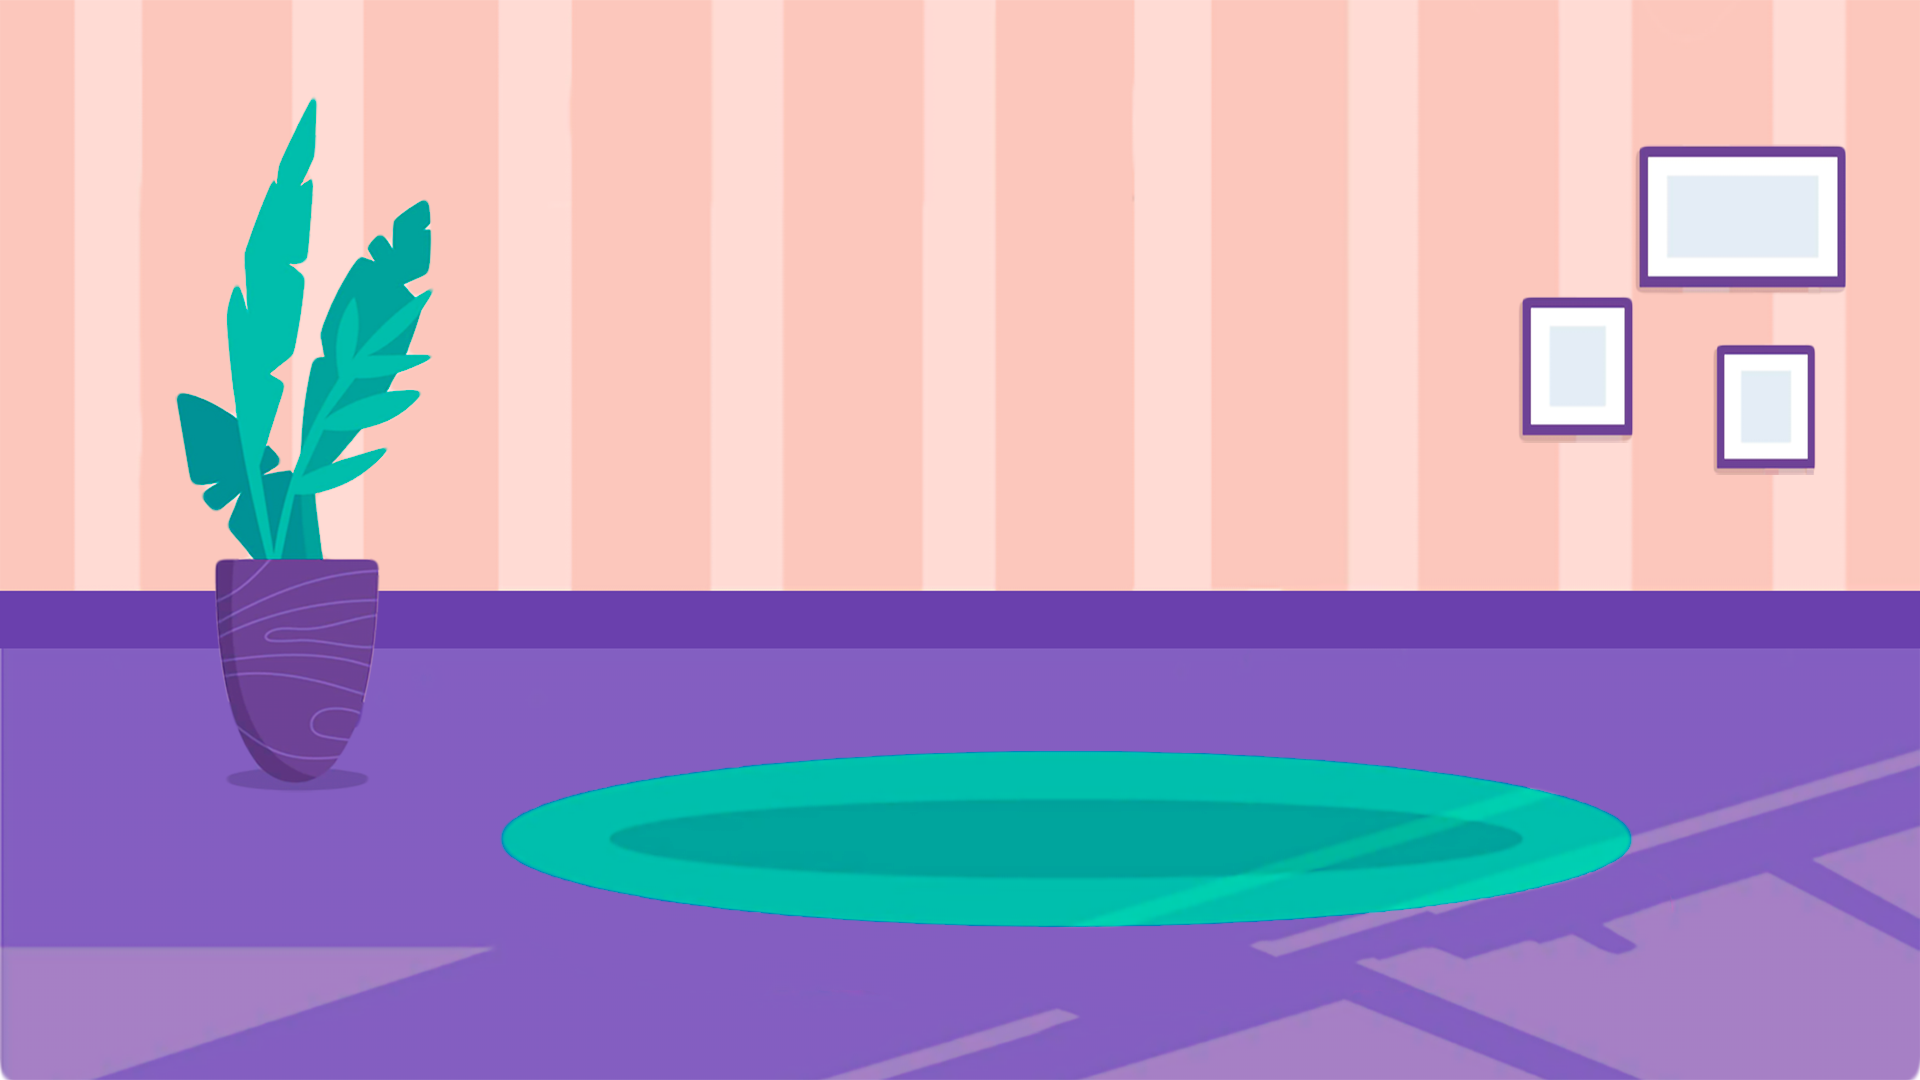
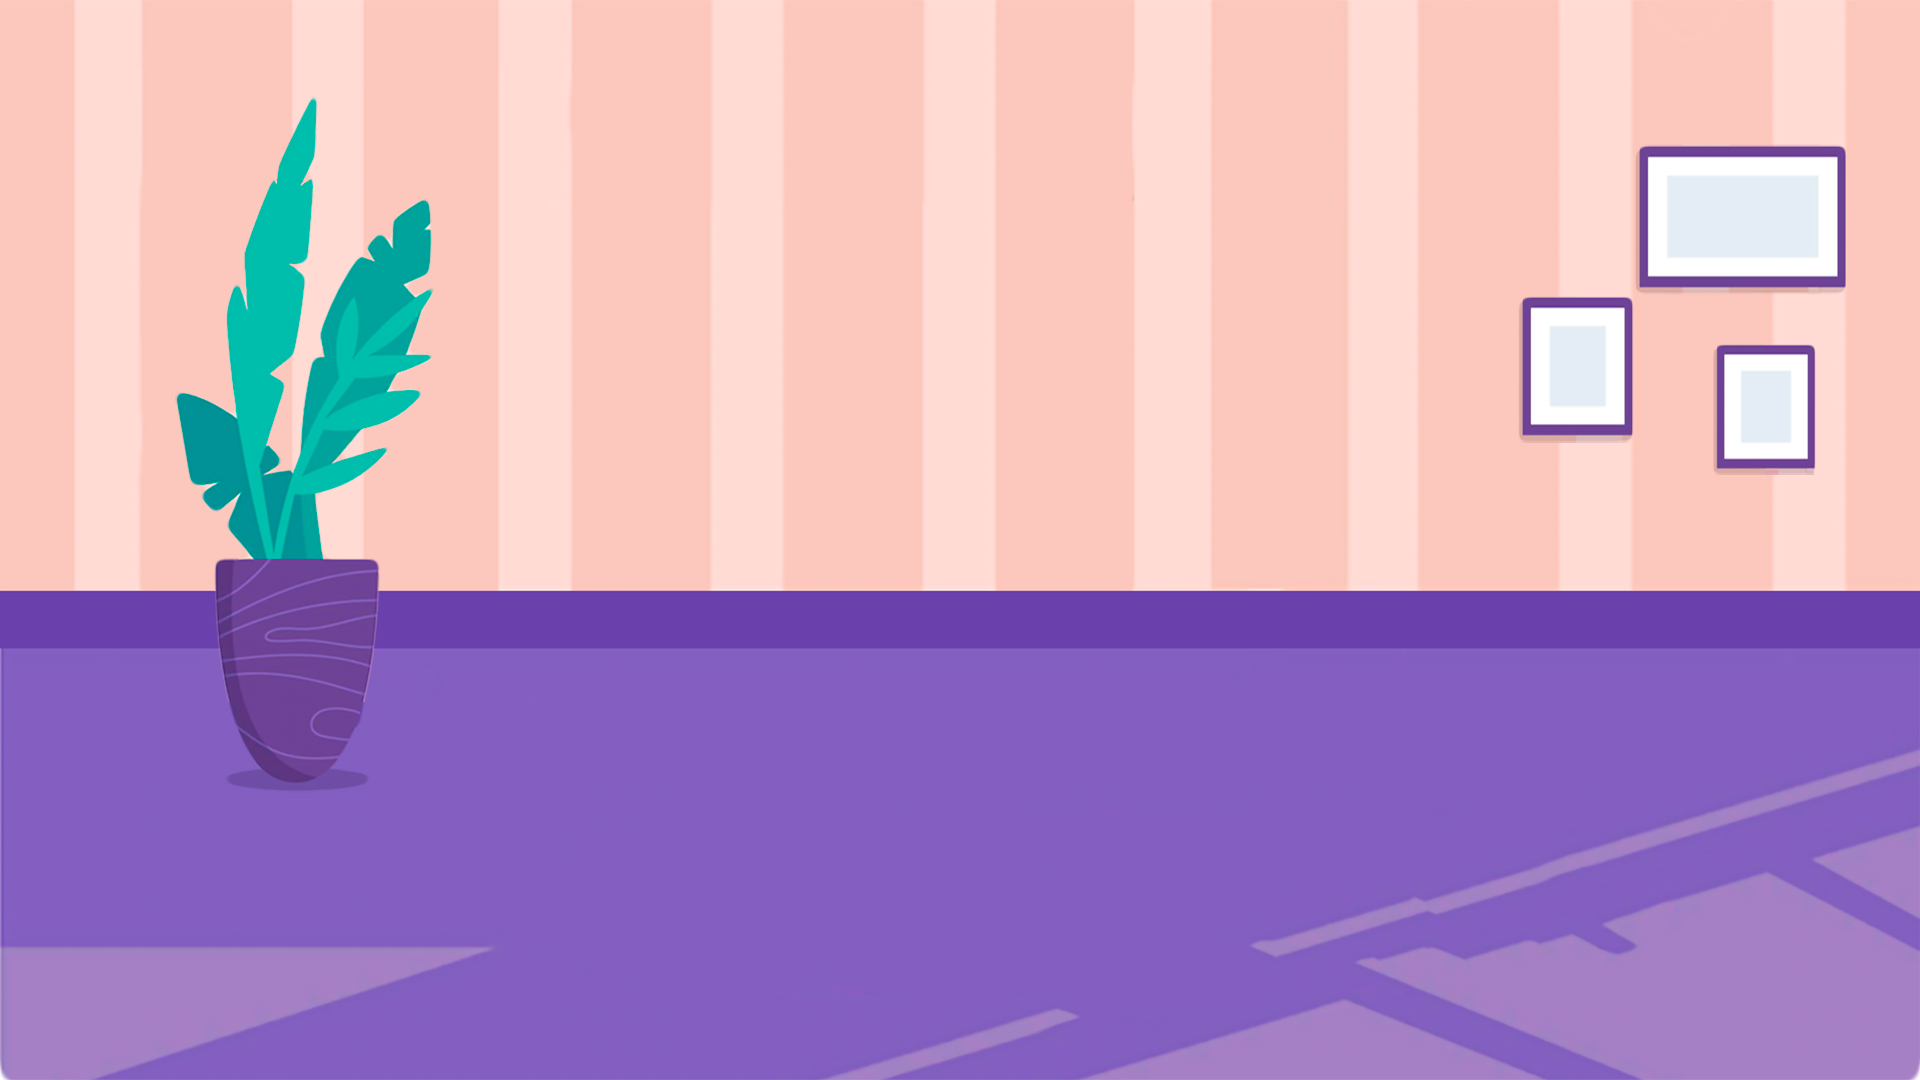
feat: position all pets in all levels

Changed region(s): [[0.25, 0.6722, 0.875, 0.8556]]

diff --git a/rs-css/src/main/global-styles/layout/_playground.scss b/rs-css/src/main/global-styles/layout/_playground.scss
@@ -19,7 +19,7 @@ $bg-full-height: 1080;
 .playground__task {
   text-align: center;
   position: relative;
-  top:10%;
+  top:7%;
 
   user-select: none;
   
@@ -55,10 +55,9 @@ $bg-full-height: 1080;
   position: absolute;
 }
 
-.playground__couch, .playground__floor {
+.playground__couch, .playground__floor, .playground__table {
   display: flex;
   justify-content: space-around;
-  align-items: center;
 }
 
 .playground__couch {
@@ -68,37 +67,100 @@ $bg-full-height: 1080;
   width: $element-width;
   aspect-ratio: calc($width / $height);
   @include bg-image($path: '../../assets/img/furniture/couch.png');
-  @include furniture-top($offset: -50px);
+  @include furniture-top($offset: -52px);
+
+  @media (max-width: 1200px) {
+    @include furniture-top($offset: -120px);
+  }
 
   right: calc(50% - $element-width / 2);
+
+  align-items: flex-start;
+  padding: 0 4%;
 
   & > * {
     flex-grow: 0;
     flex-shrink: 0;
     position: relative;
-    bottom: 5%;
+    top: 5%;
+
+    @media (max-width: 500px) {
+      top: 10%;
+    }
+  }
+
+  & > .dog, & > .corgy[mood = "hungry"] {
+    top: 7.5%;
+  }
+
+  & > .corgy {
+    top: 0;
+  }
+
+  & > .pug {
+    top: 15%;
+  }
+
+  & > .guinea-pig, & > .pug#laying {
+    top: 30%;
   }
 }
 
 .playground__table { // Max 1 pet
   $width: 678;
   $height: 708;
-  width: max(150px, 15vw);
+  width: max(100px, 15vw);
   aspect-ratio: calc($width / $height);
   @include bg-image($path: '../../assets/img/furniture/shelf.png');
+
+  z-index: $table-furniture-layer;
 
   right: 5%;
   @include furniture-top($offset: 60px);
 
+  @media (max-width: 950px) {
+    @include furniture-top($offset: 1vw);
+  }
+
+  align-items: flex-end;
+
   & > * {
-    transform: translateX(50%) translateY(-98%);
+    margin: 0 auto;
+    position: relative;
+    bottom: 99%;
   }
 }
 
 .playground__floor {
+  $width: 1772;
+  $height: 176;
   width: 50vw;
-  height: 20vh;
-  left: 30%;
-  @include furniture-top($offset: 12.5vw);
+  height: calc(50vw * $height / $width);
+  left: calc(50% - 25vw);
+  @include bg-image($path: '../../assets/img/furniture/carpet.png');
+
+  @include furniture-top($offset: 15vw);
+  @media (max-width: 850px) {
+    @include furniture-top($offset: 5vw);
+  }
+
+  align-items: center;
+
+  & > * {
+    position: relative;
+    bottom: 100%;
+  }
+
+  & > .pug {
+    bottom: 90%;
+  }
+
+  & > .fish {
+    bottom: 75%;
+  }
+
+  & > .turtle, & > .small {
+    bottom: 50%;
+  }
 }
 

diff --git a/rs-css/src/main/global-styles/abstracts/_mixins.scss b/rs-css/src/main/global-styles/abstracts/_mixins.scss
@@ -18,7 +18,6 @@
 @mixin scrollbar($track-color, $thumb-color, $width, $height: auto, $border-radius: 10px) {
   border-radius: $border-radius;
   &::-webkit-scrollbar {
-    cursor: default;
     width: $width;
     height: $height;
   }
@@ -62,29 +61,40 @@
   drop-shadow((-$border-width) (-$border-width) 0 $border-color);
 }
 
-@mixin pet($bg-path, $actual-width, $actual-height) {
+@mixin pet($bg-path, $actual-width, $actual-height, $width : 10vw) {
   @include bg-image($bg-path);
   aspect-ratio: calc($actual-width / $actual-height);
-  width: 10vw;
+  width: $width;
 
+  display: flex;
+  justify-content: center;
+  align-items: flex-end;
   & > * {
-    transform: translateX(50%) translateY(-99%);
+    position: relative;
+    left: 5%;
+    bottom: 98%;
+  }
+
+  & > .guinea-pig.small {
+    bottom: 90%;
   }
 
   @include image-border(0.5px, $additional-color-light);
-  
-  transform-origin: bottom;
-  animation: pet-stand 1s ease-in-out infinite;
+  @include pet-stand();
+}
 
-  @keyframes pet-stand {
+@mixin pet-stand($other-transforms: scaleX(1), $animation-name: pet-stand) {
+  transform-origin: bottom;
+  animation: $animation-name 1s ease-in-out infinite;
+  @keyframes #{$animation-name} {
     0% {
-      transform: scaleY(1);
+      transform: scaleY(1) $other-transforms;
     }
     50% {
-      transform: scaleY(0.9);
+      transform: scaleY(0.9) $other-transforms;
     }
     100% {
-      transform: scaleY(1);
+      transform: scaleY(1) $other-transforms;
     }
   }
 }

diff --git a/rs-css/src/main/global-styles/components/_pets.scss b/rs-css/src/main/global-styles/components/_pets.scss
@@ -15,7 +15,7 @@
 }
 
 .dog.corgy[mood = "hungry"] {
-  @include pet($bg-path: '../../assets/img/pets/corgy_hungry.png', $actual-width: 172, $actual-height: 264);
+  @include pet($bg-path: '../../assets/img/pets/corgy_hungry.png', $actual-width: 172, $actual-height: 264, $width: 7.5vw);
 }
 
 .turtle {
@@ -28,6 +28,12 @@
 
 .parrot {
   @include pet($bg-path: '../../assets/img/pets/parrot.png', $actual-width: 466, $actual-height: 734);
+
+  & > * {
+    left: -5% !important;
+    bottom: 85% !important;
+    @include pet-stand($other-transforms: rotate(40deg), $animation-name: pet-stand-on-parrot);
+  }
 }
 
 .guinea-pig {
@@ -35,7 +41,7 @@
 }
 
 .guinea-pig.small {
-  @include pet($bg-path: '../../assets/img/pets/guinea-pig_1.png', $actual-width: 224, $actual-height: 124);
+  @include pet($bg-path: '../../assets/img/pets/guinea-pig_1.png', $actual-width: 224, $actual-height: 124, $width: 3vw);
 }
 
 .dog.pug {
@@ -47,12 +53,17 @@
 }
 
 .hamster {
-  @include pet($bg-path: '../../assets/img/pets/hamster.png', $actual-width: 270, $actual-height: 368);
+  @include pet($bg-path: '../../assets/img/pets/hamster.png', $actual-width: 270, $actual-height: 368, $width: 4vw);
 }
 
 
 .small {
-  width: 5vw;
+  width: 6vw;
+}
+
+.super-extra-double-huge {
+  width: 20vw;
+  bottom: 225% !important;
 }
 
 .target {

diff --git a/rs-css/src/main/global-styles/global.scss b/rs-css/src/main/global-styles/global.scss
@@ -7,15 +7,15 @@
 @import "base/typography";
 @import "base/scrollbar";
 
-@import "layout/header";
-@import "layout/footer";
-@import "layout/playground";
-
 @import "components/toggle-input";
 @import "components/menu";
 @import "components/draggables";
 @import "components/code-highlight";
 @import "components/css-input";
 @import "components/pets";
+
+@import "layout/header";
+@import "layout/footer";
+@import "layout/playground";
 
 @import "vendors/normalize.css";

diff --git a/rs-css/src/main/global-styles/abstracts/_variables.scss b/rs-css/src/main/global-styles/abstracts/_variables.scss
@@ -1,11 +1,12 @@
 // Z-index layers
 $default-layer: 0;
-$drag-n-drop-layer: 1;
-$drag-n-drop-close-layer: 2;
-$drag-n-drop-dragged-layer: 3;
-$drag-n-drop-dragged-close-layer: 4;
-$header-footer-layer: 5;
-$menu-layer: 6;
+$table-furniture-layer: 1;
+$drag-n-drop-layer: 2;
+$drag-n-drop-close-layer: 3;
+$drag-n-drop-dragged-layer: 4;
+$drag-n-drop-dragged-close-layer: 5;
+$header-footer-layer: 6;
+$menu-layer: 7;
 
 // Transition duration
 $hover-transition: 250ms;
